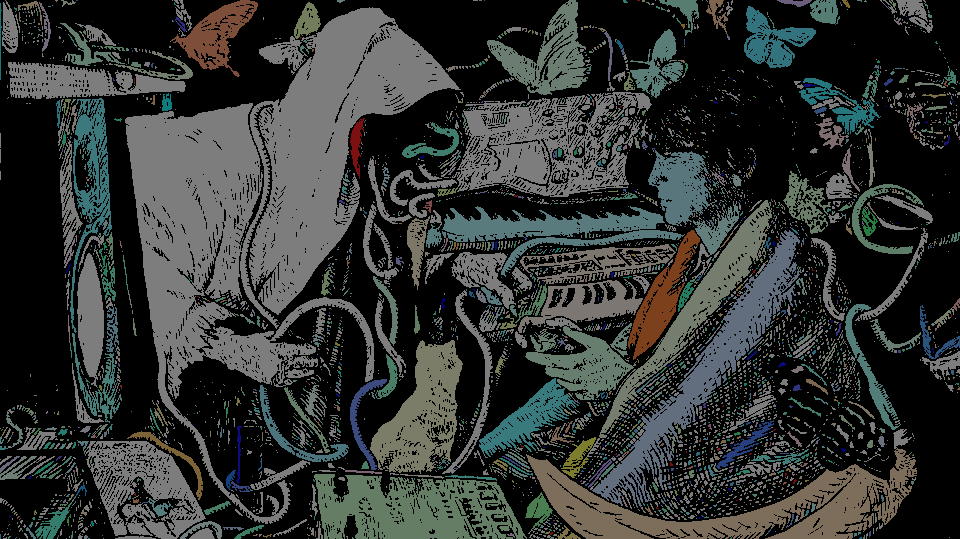
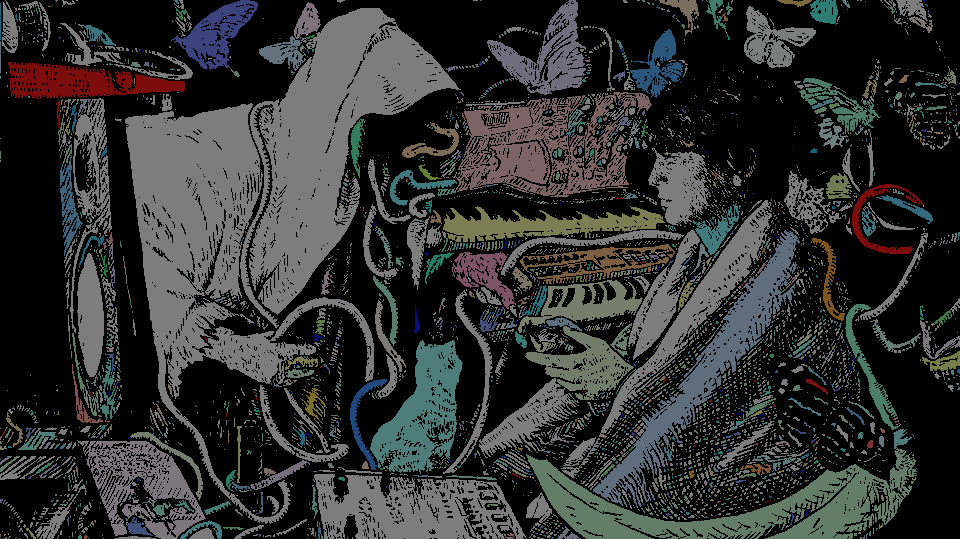
audio integration

diff --git a/impIMG.py b/impIMG.py
@@ -8,6 +8,7 @@ import numpy as np
 import scipy
 from scipy.fftpack import fft, fftfreq
 from scipy.io import wavfile
+from ts import *
 
 def show(im):
 	cv2.imshow('image',im)
@@ -108,6 +109,27 @@ def initObj(fn,pfn):
 	swamptreats.write('powa.png')
 	return(swamptreats)
 
+def audGen(swampy,fn):
+	bound = [60,250,500,2000,4000,6000,20000]
+
+	f,s,Sxx = getSxx(fn)
+
+	sums = parse(bound,Sxx,f,s)
+
+	nsums = HueNorm(sums)
+
+	for j in range(1000,1100):
+
+		for i in range(0,swampy.getLen()):
+
+			swampy.modVAL(i,nsums[3][j])
+			print(nsums[3][j])
+
+		show(cv2.cvtColor(swampy.imOUT,cv2.COLOR_HSV2BGR))
+		movie.append(cv2.cvtColor(swampy.imOUT,cv2.COLOR_HSV2BGR))
+	return(movie)
+
+
 def randGen(swampy):
 	valCache = [0 for i in range(0,swampy.getLen())]
 	v2alCache = [0 for i in range(0,swampy.getLen())]
@@ -130,20 +152,13 @@ def randGen(swampy):
 	return(movie)
 
 def impAudio(fn):
-	fs,aud = wavfile.read(fn)
-	chnCNT = len(aud.shape)
+	fn = 'toffee.wav'
+	Fs,x = wavfile.read(fn)
+	chnCNT = len(x.shape)
 	if chnCNT == 2:
-		aud = aud.sum(axis=1)/2
-	l_aud = aud.shape[0]
-	secs = l_aud/float(fs)
-	Ts = 1.0/fs
-	t = scipy.arange(0,secs,Ts)
-	FFT = abs(fft(aud))
-	FFT_side = FFT[range(l_aud/2)]
-	freqs = fftfreq(aud.size,t[1]-t[0])
-	fft_freqs = np.array(freqs)
-	freqs_side = freqs[range(l_aud/2)]
-	fft_freqs_side = np.array(freqs_side)
+		x = x.sum(axis=1)/2
+
+	f, t, Sxx = signal.spectrogram(x,Fs)
 
 def hsExtract(im):
 	hues = []
@@ -165,7 +180,7 @@ def hueExtract(im):
 def writeThatVideoShit(movie):
 	height,width,layers = movie[1].shape
 	fourcc = cv2.VideoWriter_fourcc(*'XVID')
-	video = cv2.VideoWriter('video.avi',fourcc,20,(width,height))
+	video = cv2.VideoWriter('video.avi',fourcc,200,(width,height))
 
 	for frame in movie:
 		video.write(frame)
@@ -252,6 +267,8 @@ if __name__ == '__main__':
 
 	# aud = impAudio(ain)
 
-	movie = randGen(swampy)
+	# movie = randGen(swampy)
+	movie = audGen(swampy,ain)
+
 
 	writeThatVideoShit(movie)

diff --git a/ts.py b/ts.py
@@ -1,0 +1,89 @@
+from scipy import signal
+import matplotlib.pyplot as plt
+import numpy as np
+from scipy.io import wavfile
+
+
+#20:60:250:500:2k:4k:6k:20k
+#parse by region
+def parse(bound,Sxx,f,s):
+	N = len(bound)-1
+	sums = []
+	for i in range(N):
+		flo = bound[i]
+		fhi = bound[i+1]
+		fset = []
+		fsum = []
+		fset = [j for j in range(len(f)) if flo<f[j]<fhi]
+
+		for ts in range(Sxx.shape[1]):
+			fsum.append(sum([Sxx[freq,ts] for freq in fset]))
+
+		sums.append(fsum)
+
+	return(sums)
+
+# normalize to Hue range
+def HueNorm(sums):
+	nsums = []
+	for s in sums:
+		mval = max(s)
+		norm = [float(i)/mval*179 for i in s]
+		nsums.append(norm)
+
+	return(nsums)
+
+# Calibrate sample rates.
+# generate
+
+
+def getSxx(fn):
+    Fs,x = wavfile.read(fn)
+    chnCNT = len(x.shape)
+    if chnCNT == 2:
+    	x = x.sum(axis=1)/2
+
+    f, t, Sxx = signal.spectrogram(x,Fs)
+    return(f,t,Sxx)
+
+# plt.pcolormesh(t, f, Sxx)
+# plt.ylabel('Frequency [Hz]')
+# plt.xlabel('Time [sec]')
+# plt.show()
+def create_spectrogram(audio):
+    rate, data = wavfile.read(audio)        
+    data_1D = data.flatten()
+    plt.specgram(data_1D, NFFT = 64, Fs = 64, noverlap=32)  
+    plt.savefig("melody")  
+    return()
+    # plt.show()      
+
+def tit():
+	fn = 'toffee.wav'
+	bound = [60,250,500,2000,4000,6000,20000]
+
+	f,s,Sxx = getSxx(fn)
+
+	sums = parse(bound,Sxx,f,s)
+
+	nsums = norm(sums)
+
+	# hsums = [i*179 for i in [n for n in nsums]]
+
+	return(nsums)
+
+
+if __name__ == '__main__':
+	fn = 'toffee.wav'
+	bound = [20,60,250,500,2000,4000,6000,20000]
+
+	f,s,Sxx = getSxx(fn)
+
+	sums = parse(bound,Sxx,f,s)
+
+
+
+
+
+
+
